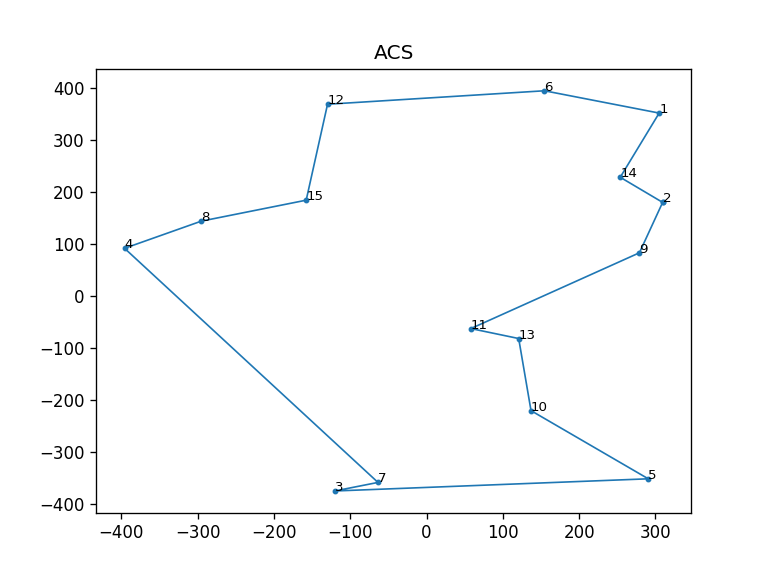
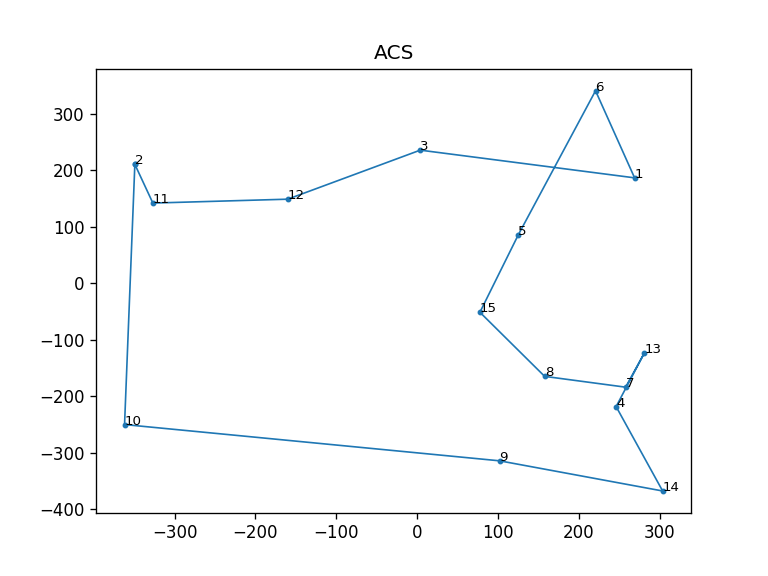
Multiple changes
-Remove parameters 'num_nodes', 'x_range' and 'y_range' from aco_tsp.py.
-Add parameter 'labels' to aco_tsp.py.

diff --git a/aco_tsp.py b/aco_tsp.py
@@ -50,8 +50,7 @@ class SolveTSPUsingACO:
             return self.distance
 
     def __init__(self, mode='ACS', colony_size=10, elitist_weight=1.0, min_scaling_factor=0.001, alpha=1.0, beta=3.0,
-                 rho=0.1, pheromone_deposit_weight=1.0, initial_pheromone=1.0, steps=100, num_nodes=20,
-                 x_range=(0, 500), y_range=(0, 500), nodes=None):
+                 rho=0.1, pheromone_deposit_weight=1.0, initial_pheromone=1.0, steps=100, nodes=None, labels=None):
         self.mode = mode
         self.colony_size = colony_size
         self.elitist_weight = elitist_weight
@@ -59,15 +58,12 @@ class SolveTSPUsingACO:
         self.rho = rho
         self.pheromone_deposit_weight = pheromone_deposit_weight
         self.steps = steps
-        if nodes is not None:
-            self.num_nodes = len(nodes)
-            self.nodes = nodes
+        self.num_nodes = len(nodes)
+        self.nodes = nodes
+        if labels is not None:
+            self.labels = labels
         else:
-            self.num_nodes = num_nodes
-            self.nodes = [
-                (random.uniform(x_range[0], x_range[1]), random.uniform(y_range[0], y_range[1]))
-                for _ in range(0, self.num_nodes)
-            ]
+            self.labels = range(1, self.num_nodes + 1)
         self.edges = [[None] * self.num_nodes for _ in range(self.num_nodes)]
         for i in range(self.num_nodes):
             for j in range(i + 1, self.num_nodes):
@@ -134,18 +130,16 @@ class SolveTSPUsingACO:
                         self.edges[i][j].pheromone = min_pheromone
 
     def run(self):
-        print('Started: {0}'.format(self.mode))
+        print('Started : {0}'.format(self.mode))
         if self.mode == 'ACS':
             self._acs()
         elif self.mode == 'Elitist':
             self._elitist()
         else:
             self._max_min()
-        print('Ended: {0}'.format(self.mode))
-        print('Tour: [{0}]'.format(
-            ' -> '.join([' -> '.join(str(i + 1) for i in self.global_best_tour), str(self.global_best_tour[0] + 1)])
-        ))
-        print('Distance: {0}\n'.format(round(self.global_best_distance, 2)))
+        print('Ended : {0}'.format(self.mode))
+        print('Sequence : <- {0} ->'.format(' - '.join(str(self.labels[i]) for i in self.global_best_tour)))
+        print('Total distance travelled to complete the tour : {0}\n'.format(round(self.global_best_distance, 2)))
 
     def plot(self, line_width=1, point_radius=math.sqrt(2.0), annotation_size=8, dpi=120, save=True, name=None):
         x = [self.nodes[i][0] for i in self.global_best_tour]
@@ -156,7 +150,7 @@ class SolveTSPUsingACO:
         plt.scatter(x, y, s=math.pi * (point_radius ** 2.0))
         plt.title(self.mode)
         for i in self.global_best_tour:
-            plt.annotate(i + 1, self.nodes[i], size=annotation_size)
+            plt.annotate(self.labels[i], self.nodes[i], size=annotation_size)
         if save:
             if name is None:
                 name = '{0}_tour.png'.format(self.mode)
@@ -166,12 +160,15 @@ class SolveTSPUsingACO:
 
 
 if __name__ == '__main__':
-    acs = SolveTSPUsingACO(mode='ACS', colony_size=5, steps=50, num_nodes=15, x_range=(-400, 400), y_range=(-400, 400))
+    _colony_size = 5
+    _steps = 50
+    _nodes = [(random.uniform(-400, 400), random.uniform(-400, 400)) for _ in range(0, 15)]
+    acs = SolveTSPUsingACO(mode='ACS', colony_size=_colony_size, steps=_steps, nodes=_nodes)
     acs.run()
     acs.plot()
-    elitist = SolveTSPUsingACO(mode='Elitist', colony_size=5, steps=50, nodes=acs.nodes)
+    elitist = SolveTSPUsingACO(mode='Elitist', colony_size=_colony_size, steps=_steps, nodes=_nodes)
     elitist.run()
     elitist.plot()
-    max_min = SolveTSPUsingACO(mode='MaxMin', colony_size=5, steps=50, nodes=acs.nodes)
+    max_min = SolveTSPUsingACO(mode='MaxMin', colony_size=_colony_size, steps=_steps, nodes=_nodes)
     max_min.run()
     max_min.plot()
